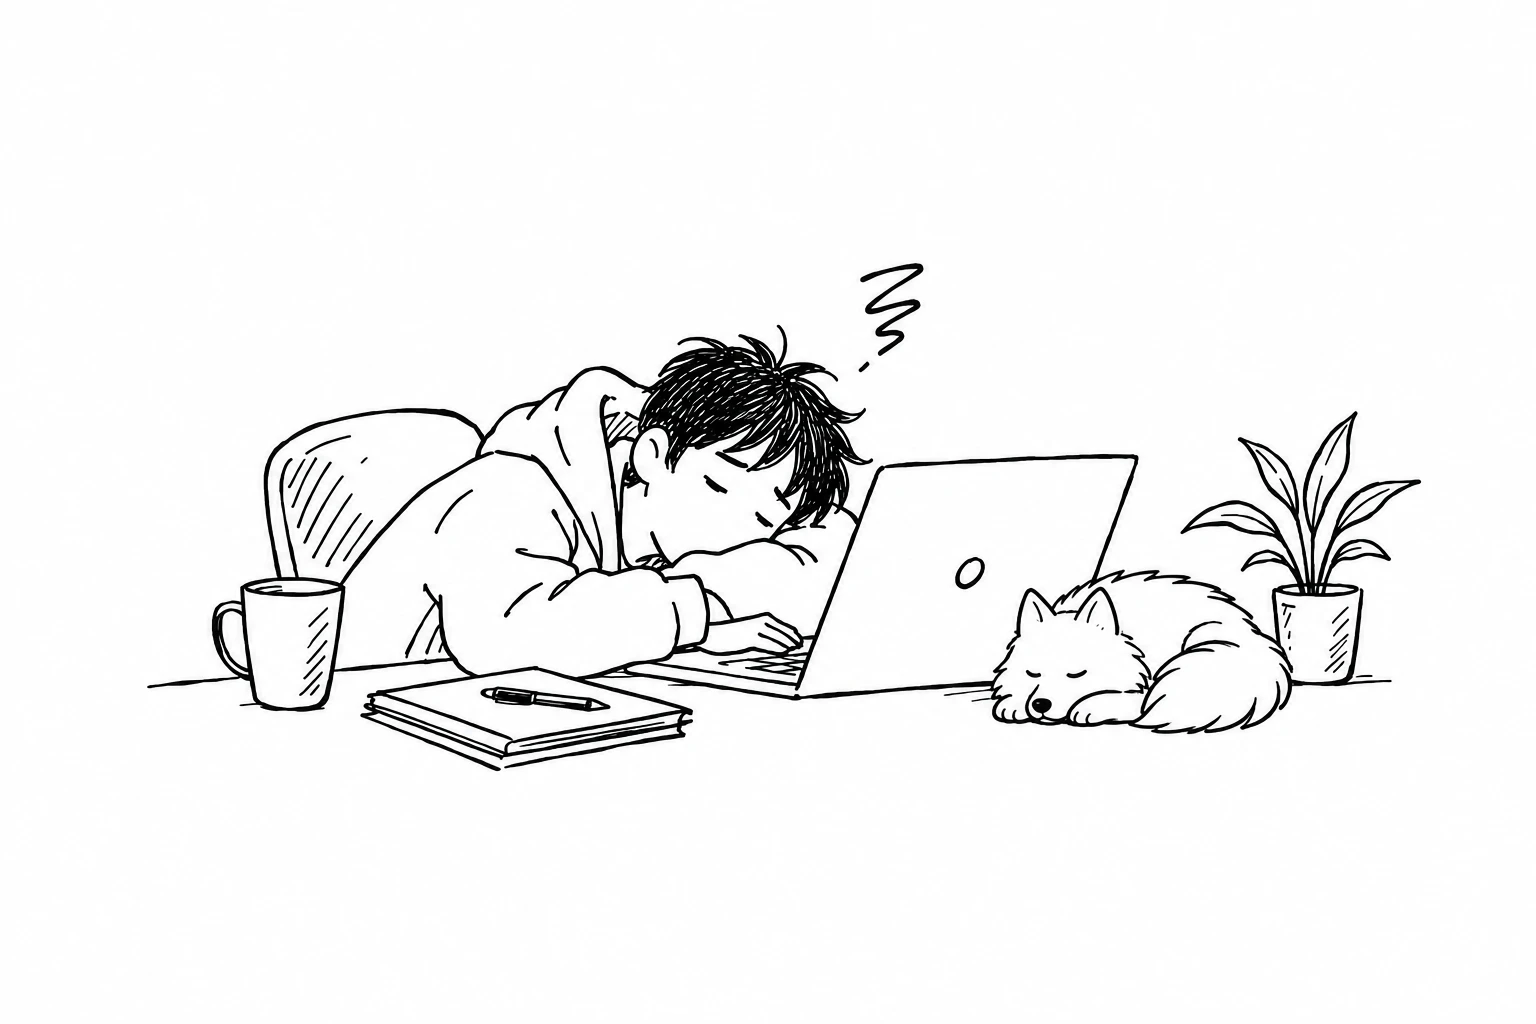
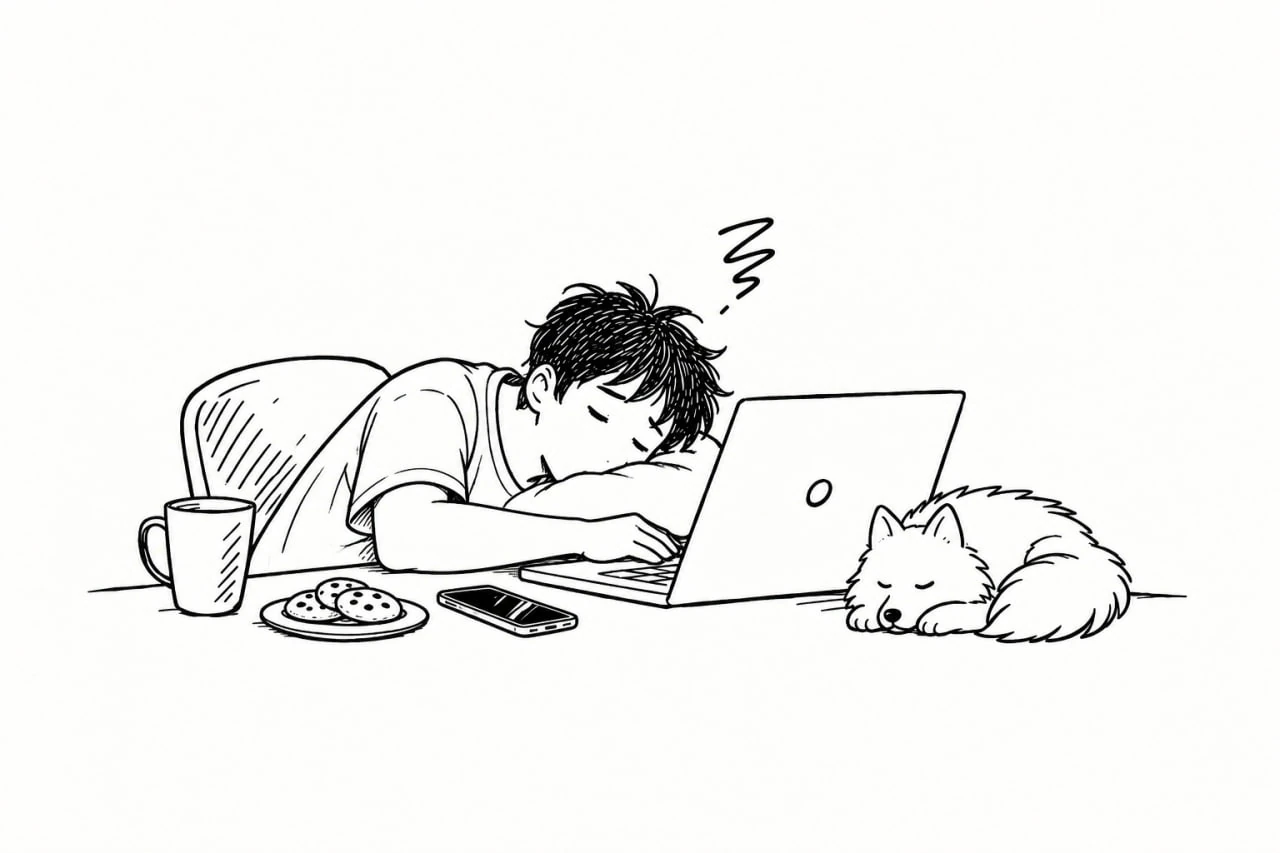
feat(footer): redrawn nap with cookies, a phone and a T-shirt
Gabriel's updated drawing (no hoodie, notebook or plant), retraced with
scripts/trace-illustrations.py. The source is smaller, so the z's pen
polygon and the nap viewBox (2229 x 883) are updated to match.

Changed region(s): [[0.0625, 0.3048, 0.9375, 0.762], [0.5625, 0.2438, 0.625, 0.3658]]

diff --git a/components/illustration.tsx b/components/illustration.tsx
@@ -14,7 +14,7 @@ const ART = {
   cards: { w: 2616, h: 1795, layers: ["ink"] },
   lamp: { w: 1934, h: 2380, layers: ["ink", "pen"] },
   plane: { w: 1427, h: 424, layers: ["ink", "pen"] },
-  nap: { w: 2579, h: 1047, layers: ["ink", "pen"] },
+  nap: { w: 2229, h: 883, layers: ["ink", "pen"] },
 } satisfies Record<string, { w: number; h: number; layers: Layer[] }>;
 
 export type IllustrationName = keyof typeof ART;

diff --git a/scripts/trace-illustrations.py b/scripts/trace-illustrations.py
@@ -53,7 +53,7 @@ ART = {
     # The dotted flight path.
     "plane": {"pen": [[(0, 0), (820, 0), (820, 490), (856, 500), (856, 1024), (0, 1024)]]},
     # The "z" over the sleeper's head.
-    "nap": {"pen": [[(850, 255), (930, 255), (930, 380), (850, 380)]]},
+    "nap": {"pen": [[(710, 205), (785, 205), (785, 318), (710, 318)]]},
 }
 
 

diff --git a/docs/v2/DESIGN-SPEC.md b/docs/v2/DESIGN-SPEC.md
@@ -467,9 +467,9 @@ The named path library (circle, underline variants, arrow variants, strike, box 
   2. Case study: two hands fanning Tong-its cards, stock pile and a meld (4:3).
   3. About: a desk lamp over an open notebook, with an iced coffee beside it (3:4; the coffee replaced a plant on 2026-10-19).
   4. Contact and 404: a paper plane with a looping dotted path (3:2).
-  5. Footer (added after the first four): asleep at the desk over a laptop, coffee and notebook, Gabriel's dog Bella asleep beside it, a "z" in `--pen` (3:2 source, cropped to about 2.5:1).
+  5. Footer (added after the first four): asleep at the desk over a laptop in a T-shirt, with a coffee mug, a plate of cookies and a phone, Gabriel's dog Bella asleep beside it, a "z" in `--pen` (3:2 source, cropped to about 2.5:1). Redrawn on 2026-10-19: it was a hoodie, a notebook and a potted plant.
 - Pipeline: PNG → threshold → `potrace` to SVG (fill-only, no strokes, optimised with SVGO, target < 30 KB each) → `public/illustrations/<name>-ink.svg` (+ optional `<name>-pen.svg` for one purple element). Reject any generation with wrong hands or stray text.
-- As built: the sources live in `assets/illustrations/*.webp` and `scripts/trace-illustrations.py` retraces them (2x upscale, threshold 150, potrace `-t 6 -a 1 -O 0.8`, SVGO at integer precision). Its config holds the hand's cutout polygon, the pen polygons and the fill's closing line, in source pixels. Sizes: hand 8.9 + 1.2 KB, cards 30.2 KB, lamp 32.2 + 0.5 KB, plane 3.6 + 2.2 KB, nap 26.7 + 0.6 KB (about 14 KB gzipped for the largest). The hero hand drops the source's napkin and coffee mug, which would have doubled the real napkin card.
+- As built: the sources live in `assets/illustrations/*.webp` and `scripts/trace-illustrations.py` retraces them (2x upscale, threshold 150, potrace `-t 6 -a 1 -O 0.8`, SVGO at integer precision). Its config holds the hand's cutout polygon, the pen polygons and the fill's closing line, in source pixels. Sizes: hand 8.9 + 1.2 KB, cards 30.2 KB, lamp 32.2 + 0.5 KB, plane 3.6 + 2.2 KB, nap 20.3 + 0.5 KB (about 14 KB gzipped for the largest). The hero hand drops the source's napkin and coffee mug, which would have doubled the real napkin card.
 
 ### 10.4 Written name
 
